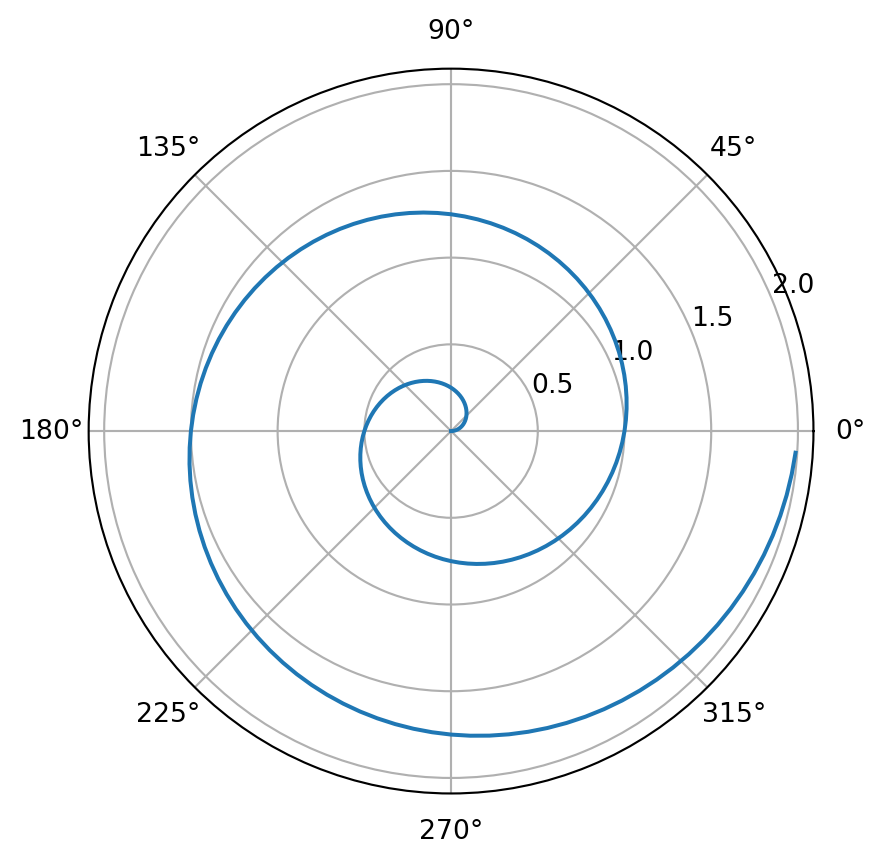
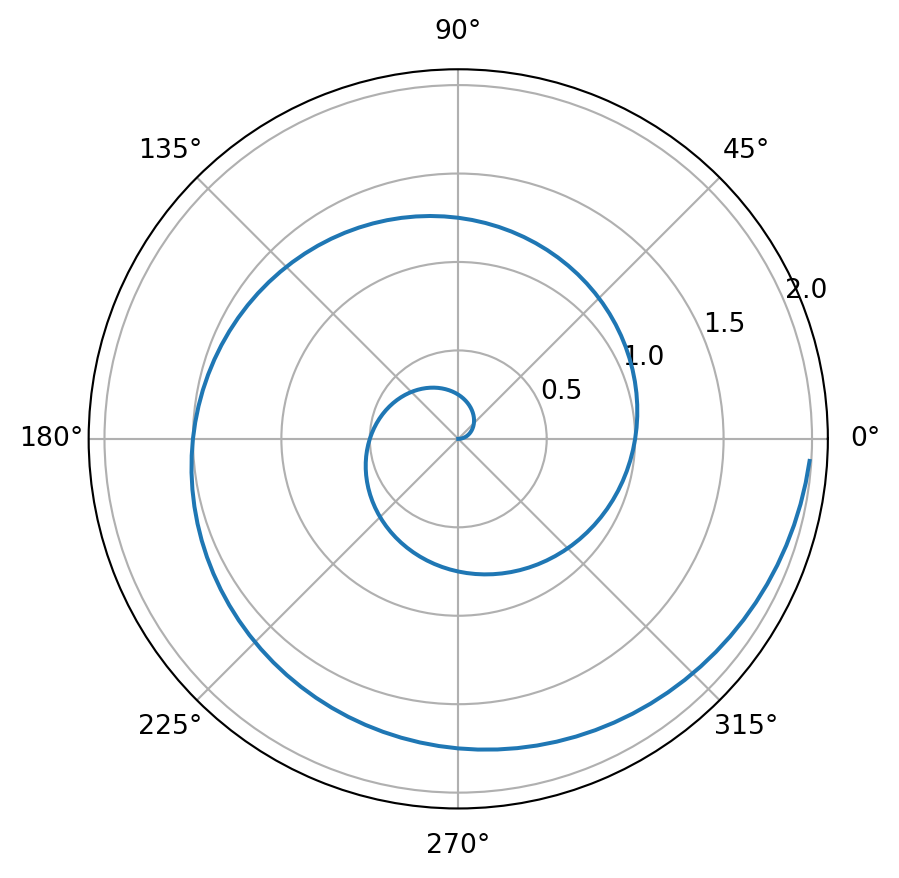
computational content analysis @ 220909-153200

diff --git a/web/sfac-py/inst-221018.html b/web/sfac-py/inst-221018.html
@@ -15,6 +15,69 @@ span.underline{text-decoration: underline;}
 div.column{display: inline-block; vertical-align: top; width: 50%;}
 div.hanging-indent{margin-left: 1.5em; text-indent: -1.5em;}
 ul.task-list{list-style: none;}
+pre > code.sourceCode { white-space: pre; position: relative; }
+pre > code.sourceCode > span { display: inline-block; line-height: 1.25; }
+pre > code.sourceCode > span:empty { height: 1.2em; }
+.sourceCode { overflow: visible; }
+code.sourceCode > span { color: inherit; text-decoration: inherit; }
+div.sourceCode { margin: 1em 0; }
+pre.sourceCode { margin: 0; }
+@media screen {
+div.sourceCode { overflow: auto; }
+}
+@media print {
+pre > code.sourceCode { white-space: pre-wrap; }
+pre > code.sourceCode > span { text-indent: -5em; padding-left: 5em; }
+}
+pre.numberSource code
+  { counter-reset: source-line 0; }
+pre.numberSource code > span
+  { position: relative; left: -4em; counter-increment: source-line; }
+pre.numberSource code > span > a:first-child::before
+  { content: counter(source-line);
+    position: relative; left: -1em; text-align: right; vertical-align: baseline;
+    border: none; display: inline-block;
+    -webkit-touch-callout: none; -webkit-user-select: none;
+    -khtml-user-select: none; -moz-user-select: none;
+    -ms-user-select: none; user-select: none;
+    padding: 0 4px; width: 4em;
+    color: #aaaaaa;
+  }
+pre.numberSource { margin-left: 3em; border-left: 1px solid #aaaaaa;  padding-left: 4px; }
+div.sourceCode
+  {   }
+@media screen {
+pre > code.sourceCode > span > a:first-child::before { text-decoration: underline; }
+}
+code span.al { color: #ff0000; font-weight: bold; } /* Alert */
+code span.an { color: #60a0b0; font-weight: bold; font-style: italic; } /* Annotation */
+code span.at { color: #7d9029; } /* Attribute */
+code span.bn { color: #40a070; } /* BaseN */
+code span.bu { } /* BuiltIn */
+code span.cf { color: #007020; font-weight: bold; } /* ControlFlow */
+code span.ch { color: #4070a0; } /* Char */
+code span.cn { color: #880000; } /* Constant */
+code span.co { color: #60a0b0; font-style: italic; } /* Comment */
+code span.cv { color: #60a0b0; font-weight: bold; font-style: italic; } /* CommentVar */
+code span.do { color: #ba2121; font-style: italic; } /* Documentation */
+code span.dt { color: #902000; } /* DataType */
+code span.dv { color: #40a070; } /* DecVal */
+code span.er { color: #ff0000; font-weight: bold; } /* Error */
+code span.ex { } /* Extension */
+code span.fl { color: #40a070; } /* Float */
+code span.fu { color: #06287e; } /* Function */
+code span.im { } /* Import */
+code span.in { color: #60a0b0; font-weight: bold; font-style: italic; } /* Information */
+code span.kw { color: #007020; font-weight: bold; } /* Keyword */
+code span.op { color: #666666; } /* Operator */
+code span.ot { color: #007020; } /* Other */
+code span.pp { color: #bc7a00; } /* Preprocessor */
+code span.sc { color: #4070a0; } /* SpecialChar */
+code span.ss { color: #bb6688; } /* SpecialString */
+code span.st { color: #4070a0; } /* String */
+code span.va { color: #19177c; } /* Variable */
+code span.vs { color: #4070a0; } /* VerbatimString */
+code span.wa { color: #60a0b0; font-weight: bold; font-style: italic; } /* Warning */
 </style>
 
 
@@ -56,6 +119,9 @@ ul.task-list{list-style: none;}
     "search-submit-button-title": "Submit"
   }
 }</script>
+<script src="https://cdnjs.cloudflare.com/ajax/libs/require.js/2.3.6/require.min.js" integrity="sha512-c3Nl8+7g4LMSTdrm621y7kf9v3SDPnhxLNhcjFJbKECVnmZHTdo+IRO05sNLTH/D3vA6u1X32ehoLC7WFVdheg==" crossorigin="anonymous"></script>
+<script src="https://cdnjs.cloudflare.com/ajax/libs/jquery/3.5.1/jquery.min.js" integrity="sha512-bLT0Qm9VnAYZDflyKcBaQ2gg0hSYNQrJ8RilYldYQ1FxQYoCLtUjuuRuZo+fjqhx/qtq/1itJ0C2ejDxltZVFg==" crossorigin="anonymous"></script>
+<script type="application/javascript">define('jquery', [],function() {return window.jQuery;})</script>
 
 
 <link rel="stylesheet" href="styles.css">
@@ -177,6 +243,85 @@ ul.task-list{list-style: none;}
 
 <section id="some-headline" class="level2">
 <h2 class="anchored" data-anchor-id="some-headline">some headline</h2>
+<div class="cell" data-execution_count="1">
+<div class="sourceCode cell-code" id="cb1"><pre class="sourceCode python code-with-copy"><code class="sourceCode python"><span id="cb1-1"><a href="#cb1-1" aria-hidden="true" tabindex="-1"></a><span class="co"># get altair graphics</span></span>
+<span id="cb1-2"><a href="#cb1-2" aria-hidden="true" tabindex="-1"></a><span class="im">import</span> altair <span class="im">as</span> alt</span>
+<span id="cb1-3"><a href="#cb1-3" aria-hidden="true" tabindex="-1"></a><span class="co"># get data object from vega_datasets</span></span>
+<span id="cb1-4"><a href="#cb1-4" aria-hidden="true" tabindex="-1"></a><span class="im">from</span> vega_datasets <span class="im">import</span> data</span></code><button title="Copy to Clipboard" class="code-copy-button"><i class="bi"></i></button></pre></div>
+</div>
+<div class="cell" data-execution_count="2">
+<div class="sourceCode cell-code" id="cb2"><pre class="sourceCode python code-with-copy"><code class="sourceCode python"><span id="cb2-1"><a href="#cb2-1" aria-hidden="true" tabindex="-1"></a><span class="co"># Selecting the data</span></span>
+<span id="cb2-2"><a href="#cb2-2" aria-hidden="true" tabindex="-1"></a>df <span class="op">=</span> data.iris()</span>
+<span id="cb2-3"><a href="#cb2-3" aria-hidden="true" tabindex="-1"></a>  </span>
+<span id="cb2-4"><a href="#cb2-4" aria-hidden="true" tabindex="-1"></a><span class="co"># Making the Scatter Plot</span></span>
+<span id="cb2-5"><a href="#cb2-5" aria-hidden="true" tabindex="-1"></a>alt.Chart(df).mark_point().encode(</span>
+<span id="cb2-6"><a href="#cb2-6" aria-hidden="true" tabindex="-1"></a>    <span class="co"># Map the sepalLength to x-axis</span></span>
+<span id="cb2-7"><a href="#cb2-7" aria-hidden="true" tabindex="-1"></a>    x<span class="op">=</span><span class="st">'sepalLength'</span>,</span>
+<span id="cb2-8"><a href="#cb2-8" aria-hidden="true" tabindex="-1"></a>    <span class="co"># Map the petalLength to y-axis</span></span>
+<span id="cb2-9"><a href="#cb2-9" aria-hidden="true" tabindex="-1"></a>    y<span class="op">=</span><span class="st">'petalLength'</span>,</span>
+<span id="cb2-10"><a href="#cb2-10" aria-hidden="true" tabindex="-1"></a>    <span class="co"># Map the species to shape</span></span>
+<span id="cb2-11"><a href="#cb2-11" aria-hidden="true" tabindex="-1"></a>    shape<span class="op">=</span><span class="st">'species'</span>,</span>
+<span id="cb2-12"><a href="#cb2-12" aria-hidden="true" tabindex="-1"></a>    <span class="co">#</span></span>
+<span id="cb2-13"><a href="#cb2-13" aria-hidden="true" tabindex="-1"></a>    color<span class="op">=</span><span class="st">'species'</span></span>
+<span id="cb2-14"><a href="#cb2-14" aria-hidden="true" tabindex="-1"></a>)</span></code><button title="Copy to Clipboard" class="code-copy-button"><i class="bi"></i></button></pre></div>
+<div class="cell-output cell-output-display" data-execution_count="2">
+
+<div id="altair-viz-afddd429305249bcb5705a6ff30d6716"></div>
+<script type="text/javascript">
+  var VEGA_DEBUG = (typeof VEGA_DEBUG == "undefined") ? {} : VEGA_DEBUG;
+  (function(spec, embedOpt){
+    let outputDiv = document.currentScript.previousElementSibling;
+    if (outputDiv.id !== "altair-viz-afddd429305249bcb5705a6ff30d6716") {
+      outputDiv = document.getElementById("altair-viz-afddd429305249bcb5705a6ff30d6716");
+    }
+    const paths = {
+      "vega": "https://cdn.jsdelivr.net/npm//vega@5?noext",
+      "vega-lib": "https://cdn.jsdelivr.net/npm//vega-lib?noext",
+      "vega-lite": "https://cdn.jsdelivr.net/npm//vega-lite@4.17.0?noext",
+      "vega-embed": "https://cdn.jsdelivr.net/npm//vega-embed@6?noext",
+    };
+
+    function maybeLoadScript(lib, version) {
+      var key = `${lib.replace("-", "")}_version`;
+      return (VEGA_DEBUG[key] == version) ?
+        Promise.resolve(paths[lib]) :
+        new Promise(function(resolve, reject) {
+          var s = document.createElement('script');
+          document.getElementsByTagName("head")[0].appendChild(s);
+          s.async = true;
+          s.onload = () => {
+            VEGA_DEBUG[key] = version;
+            return resolve(paths[lib]);
+          };
+          s.onerror = () => reject(`Error loading script: ${paths[lib]}`);
+          s.src = paths[lib];
+        });
+    }
+
+    function showError(err) {
+      outputDiv.innerHTML = `<div class="error" style="color:red;">${err}</div>`;
+      throw err;
+    }
+
+    function displayChart(vegaEmbed) {
+      vegaEmbed(outputDiv, spec, embedOpt)
+        .catch(err => showError(`Javascript Error: ${err.message}<br>This usually means there's a typo in your chart specification. See the javascript console for the full traceback.`));
+    }
+
+    if(typeof define === "function" && define.amd) {
+      requirejs.config({paths});
+      require(["vega-embed"], displayChart, err => showError(`Error loading script: ${err.message}`));
+    } else {
+      maybeLoadScript("vega", "5")
+        .then(() => maybeLoadScript("vega-lite", "4.17.0"))
+        .then(() => maybeLoadScript("vega-embed", "6"))
+        .catch(showError)
+        .then(() => displayChart(vegaEmbed));
+    }
+  })({"config": {"view": {"continuousWidth": 400, "continuousHeight": 300}}, "data": {"name": "data-a264acbd6e539a8b3afc0cb5f240fb57"}, "mark": "point", "encoding": {"color": {"field": "species", "type": "nominal"}, "shape": {"field": "species", "type": "nominal"}, "x": {"field": "sepalLength", "type": "quantitative"}, "y": {"field": "petalLength", "type": "quantitative"}}, "$schema": "https://vega.github.io/schema/vega-lite/v4.17.0.json", "datasets": {"data-a264acbd6e539a8b3afc0cb5f240fb57": [{"sepalLength": 5.1, "sepalWidth": 3.5, "petalLength": 1.4, "petalWidth": 0.2, "species": "setosa"}, {"sepalLength": 4.9, "sepalWidth": 3.0, "petalLength": 1.4, "petalWidth": 0.2, "species": "setosa"}, {"sepalLength": 4.7, "sepalWidth": 3.2, "petalLength": 1.3, "petalWidth": 0.2, "species": "setosa"}, {"sepalLength": 4.6, "sepalWidth": 3.1, "petalLength": 1.5, "petalWidth": 0.2, "species": "setosa"}, {"sepalLength": 5.0, "sepalWidth": 3.6, "petalLength": 1.4, "petalWidth": 0.2, "species": "setosa"}, {"sepalLength": 5.4, "sepalWidth": 3.9, "petalLength": 1.7000000000000002, "petalWidth": 0.4, "species": "setosa"}, {"sepalLength": 4.6, "sepalWidth": 3.4, "petalLength": 1.4, "petalWidth": 0.30000000000000004, "species": "setosa"}, {"sepalLength": 5.0, "sepalWidth": 3.4, "petalLength": 1.5, "petalWidth": 0.2, "species": "setosa"}, {"sepalLength": 4.4, "sepalWidth": 2.9, "petalLength": 1.4, "petalWidth": 0.2, "species": "setosa"}, {"sepalLength": 4.9, "sepalWidth": 3.1, "petalLength": 1.5, "petalWidth": 0.1, "species": "setosa"}, {"sepalLength": 5.4, "sepalWidth": 3.7, "petalLength": 1.5, "petalWidth": 0.2, "species": "setosa"}, {"sepalLength": 4.8, "sepalWidth": 3.4, "petalLength": 1.6, "petalWidth": 0.2, "species": "setosa"}, {"sepalLength": 4.8, "sepalWidth": 3.0, "petalLength": 1.4, "petalWidth": 0.1, "species": "setosa"}, {"sepalLength": 4.3, "sepalWidth": 3.0, "petalLength": 1.1, "petalWidth": 0.1, "species": "setosa"}, {"sepalLength": 5.8, "sepalWidth": 4.0, "petalLength": 1.2, "petalWidth": 0.2, "species": "setosa"}, {"sepalLength": 5.7, "sepalWidth": 4.4, "petalLength": 1.5, "petalWidth": 0.4, "species": "setosa"}, {"sepalLength": 5.4, "sepalWidth": 3.9, "petalLength": 1.3, "petalWidth": 0.4, "species": "setosa"}, {"sepalLength": 5.1, "sepalWidth": 3.5, "petalLength": 1.4, "petalWidth": 0.30000000000000004, "species": "setosa"}, {"sepalLength": 5.7, "sepalWidth": 3.8, "petalLength": 1.7000000000000002, "petalWidth": 0.30000000000000004, "species": "setosa"}, {"sepalLength": 5.1, "sepalWidth": 3.8, "petalLength": 1.5, "petalWidth": 0.30000000000000004, "species": "setosa"}, {"sepalLength": 5.4, "sepalWidth": 3.4, "petalLength": 1.7000000000000002, "petalWidth": 0.2, "species": "setosa"}, {"sepalLength": 5.1, "sepalWidth": 3.7, "petalLength": 1.5, "petalWidth": 0.4, "species": "setosa"}, {"sepalLength": 4.6, "sepalWidth": 3.6, "petalLength": 1.0, "petalWidth": 0.2, "species": "setosa"}, {"sepalLength": 5.1, "sepalWidth": 3.3, "petalLength": 1.7000000000000002, "petalWidth": 0.5, "species": "setosa"}, {"sepalLength": 4.8, "sepalWidth": 3.4, "petalLength": 1.9, "petalWidth": 0.2, "species": "setosa"}, {"sepalLength": 5.0, "sepalWidth": 3.0, "petalLength": 1.6, "petalWidth": 0.2, "species": "setosa"}, {"sepalLength": 5.0, "sepalWidth": 3.4, "petalLength": 1.6, "petalWidth": 0.4, "species": "setosa"}, {"sepalLength": 5.2, "sepalWidth": 3.5, "petalLength": 1.5, "petalWidth": 0.2, "species": "setosa"}, {"sepalLength": 5.2, "sepalWidth": 3.4, "petalLength": 1.4, "petalWidth": 0.2, "species": "setosa"}, {"sepalLength": 4.7, "sepalWidth": 3.2, "petalLength": 1.6, "petalWidth": 0.2, "species": "setosa"}, {"sepalLength": 4.8, "sepalWidth": 3.1, "petalLength": 1.6, "petalWidth": 0.2, "species": "setosa"}, {"sepalLength": 5.4, "sepalWidth": 3.4, "petalLength": 1.5, "petalWidth": 0.4, "species": "setosa"}, {"sepalLength": 5.2, "sepalWidth": 4.1, "petalLength": 1.5, "petalWidth": 0.1, "species": "setosa"}, {"sepalLength": 5.5, "sepalWidth": 4.2, "petalLength": 1.4, "petalWidth": 0.2, "species": "setosa"}, {"sepalLength": 4.9, "sepalWidth": 3.1, "petalLength": 1.5, "petalWidth": 0.2, "species": "setosa"}, {"sepalLength": 5.0, "sepalWidth": 3.2, "petalLength": 1.2, "petalWidth": 0.2, "species": "setosa"}, {"sepalLength": 5.5, "sepalWidth": 3.5, "petalLength": 1.3, "petalWidth": 0.2, "species": "setosa"}, {"sepalLength": 4.9, "sepalWidth": 3.6, "petalLength": 1.4, "petalWidth": 0.1, "species": "setosa"}, {"sepalLength": 4.4, "sepalWidth": 3.0, "petalLength": 1.3, "petalWidth": 0.2, "species": "setosa"}, {"sepalLength": 5.1, "sepalWidth": 3.4, "petalLength": 1.5, "petalWidth": 0.2, "species": "setosa"}, {"sepalLength": 5.0, "sepalWidth": 3.5, "petalLength": 1.3, "petalWidth": 0.30000000000000004, "species": "setosa"}, {"sepalLength": 4.5, "sepalWidth": 2.3, "petalLength": 1.3, "petalWidth": 0.30000000000000004, "species": "setosa"}, {"sepalLength": 4.4, "sepalWidth": 3.2, "petalLength": 1.3, "petalWidth": 0.2, "species": "setosa"}, {"sepalLength": 5.0, "sepalWidth": 3.5, "petalLength": 1.6, "petalWidth": 0.6000000000000001, "species": "setosa"}, {"sepalLength": 5.1, "sepalWidth": 3.8, "petalLength": 1.9, "petalWidth": 0.4, "species": "setosa"}, {"sepalLength": 4.8, "sepalWidth": 3.0, "petalLength": 1.4, "petalWidth": 0.30000000000000004, "species": "setosa"}, {"sepalLength": 5.1, "sepalWidth": 3.8, "petalLength": 1.6, "petalWidth": 0.2, "species": "setosa"}, {"sepalLength": 4.6, "sepalWidth": 3.2, "petalLength": 1.4, "petalWidth": 0.2, "species": "setosa"}, {"sepalLength": 5.3, "sepalWidth": 3.7, "petalLength": 1.5, "petalWidth": 0.2, "species": "setosa"}, {"sepalLength": 5.0, "sepalWidth": 3.3, "petalLength": 1.4, "petalWidth": 0.2, "species": "setosa"}, {"sepalLength": 7.0, "sepalWidth": 3.2, "petalLength": 4.7, "petalWidth": 1.4, "species": "versicolor"}, {"sepalLength": 6.4, "sepalWidth": 3.2, "petalLength": 4.5, "petalWidth": 1.5, "species": "versicolor"}, {"sepalLength": 6.9, "sepalWidth": 3.1, "petalLength": 4.9, "petalWidth": 1.5, "species": "versicolor"}, {"sepalLength": 5.5, "sepalWidth": 2.3, "petalLength": 4.0, "petalWidth": 1.3, "species": "versicolor"}, {"sepalLength": 6.5, "sepalWidth": 2.8, "petalLength": 4.6, "petalWidth": 1.5, "species": "versicolor"}, {"sepalLength": 5.7, "sepalWidth": 2.8, "petalLength": 4.5, "petalWidth": 1.3, "species": "versicolor"}, {"sepalLength": 6.3, "sepalWidth": 3.3, "petalLength": 4.7, "petalWidth": 1.6, "species": "versicolor"}, {"sepalLength": 4.9, "sepalWidth": 2.4, "petalLength": 3.3, "petalWidth": 1.0, "species": "versicolor"}, {"sepalLength": 6.6, "sepalWidth": 2.9, "petalLength": 4.6, "petalWidth": 1.3, "species": "versicolor"}, {"sepalLength": 5.2, "sepalWidth": 2.7, "petalLength": 3.9, "petalWidth": 1.4, "species": "versicolor"}, {"sepalLength": 5.0, "sepalWidth": 2.0, "petalLength": 3.5, "petalWidth": 1.0, "species": "versicolor"}, {"sepalLength": 5.9, "sepalWidth": 3.0, "petalLength": 4.2, "petalWidth": 1.5, "species": "versicolor"}, {"sepalLength": 6.0, "sepalWidth": 2.2, "petalLength": 4.0, "petalWidth": 1.0, "species": "versicolor"}, {"sepalLength": 6.1, "sepalWidth": 2.9, "petalLength": 4.7, "petalWidth": 1.4, "species": "versicolor"}, {"sepalLength": 5.6, "sepalWidth": 2.9, "petalLength": 3.6, "petalWidth": 1.3, "species": "versicolor"}, {"sepalLength": 6.7, "sepalWidth": 3.1, "petalLength": 4.4, "petalWidth": 1.4, "species": "versicolor"}, {"sepalLength": 5.6, "sepalWidth": 3.0, "petalLength": 4.5, "petalWidth": 1.5, "species": "versicolor"}, {"sepalLength": 5.8, "sepalWidth": 2.7, "petalLength": 4.1, "petalWidth": 1.0, "species": "versicolor"}, {"sepalLength": 6.2, "sepalWidth": 2.2, "petalLength": 4.5, "petalWidth": 1.5, "species": "versicolor"}, {"sepalLength": 5.6, "sepalWidth": 2.5, "petalLength": 3.9, "petalWidth": 1.1, "species": "versicolor"}, {"sepalLength": 5.9, "sepalWidth": 3.2, "petalLength": 4.8, "petalWidth": 1.8, "species": "versicolor"}, {"sepalLength": 6.1, "sepalWidth": 2.8, "petalLength": 4.0, "petalWidth": 1.3, "species": "versicolor"}, {"sepalLength": 6.3, "sepalWidth": 2.5, "petalLength": 4.9, "petalWidth": 1.5, "species": "versicolor"}, {"sepalLength": 6.1, "sepalWidth": 2.8, "petalLength": 4.7, "petalWidth": 1.2, "species": "versicolor"}, {"sepalLength": 6.4, "sepalWidth": 2.9, "petalLength": 4.3, "petalWidth": 1.3, "species": "versicolor"}, {"sepalLength": 6.6, "sepalWidth": 3.0, "petalLength": 4.4, "petalWidth": 1.4, "species": "versicolor"}, {"sepalLength": 6.8, "sepalWidth": 2.8, "petalLength": 4.8, "petalWidth": 1.4, "species": "versicolor"}, {"sepalLength": 6.7, "sepalWidth": 3.0, "petalLength": 5.0, "petalWidth": 1.7000000000000002, "species": "versicolor"}, {"sepalLength": 6.0, "sepalWidth": 2.9, "petalLength": 4.5, "petalWidth": 1.5, "species": "versicolor"}, {"sepalLength": 5.7, "sepalWidth": 2.6, "petalLength": 3.5, "petalWidth": 1.0, "species": "versicolor"}, {"sepalLength": 5.5, "sepalWidth": 2.4, "petalLength": 3.8, "petalWidth": 1.1, "species": "versicolor"}, {"sepalLength": 5.5, "sepalWidth": 2.4, "petalLength": 3.7, "petalWidth": 1.0, "species": "versicolor"}, {"sepalLength": 5.8, "sepalWidth": 2.7, "petalLength": 3.9, "petalWidth": 1.2, "species": "versicolor"}, {"sepalLength": 6.0, "sepalWidth": 2.7, "petalLength": 5.1, "petalWidth": 1.6, "species": "versicolor"}, {"sepalLength": 5.4, "sepalWidth": 3.0, "petalLength": 4.5, "petalWidth": 1.5, "species": "versicolor"}, {"sepalLength": 6.0, "sepalWidth": 3.4, "petalLength": 4.5, "petalWidth": 1.6, "species": "versicolor"}, {"sepalLength": 6.7, "sepalWidth": 3.1, "petalLength": 4.7, "petalWidth": 1.5, "species": "versicolor"}, {"sepalLength": 6.3, "sepalWidth": 2.3, "petalLength": 4.4, "petalWidth": 1.3, "species": "versicolor"}, {"sepalLength": 5.6, "sepalWidth": 3.0, "petalLength": 4.1, "petalWidth": 1.3, "species": "versicolor"}, {"sepalLength": 5.5, "sepalWidth": 2.5, "petalLength": 4.0, "petalWidth": 1.3, "species": "versicolor"}, {"sepalLength": 5.5, "sepalWidth": 2.6, "petalLength": 4.4, "petalWidth": 1.2, "species": "versicolor"}, {"sepalLength": 6.1, "sepalWidth": 3.0, "petalLength": 4.6, "petalWidth": 1.4, "species": "versicolor"}, {"sepalLength": 5.8, "sepalWidth": 2.6, "petalLength": 4.0, "petalWidth": 1.2, "species": "versicolor"}, {"sepalLength": 5.0, "sepalWidth": 2.3, "petalLength": 3.3, "petalWidth": 1.0, "species": "versicolor"}, {"sepalLength": 5.6, "sepalWidth": 2.7, "petalLength": 4.2, "petalWidth": 1.3, "species": "versicolor"}, {"sepalLength": 5.7, "sepalWidth": 3.0, "petalLength": 4.2, "petalWidth": 1.2, "species": "versicolor"}, {"sepalLength": 5.7, "sepalWidth": 2.9, "petalLength": 4.2, "petalWidth": 1.3, "species": "versicolor"}, {"sepalLength": 6.2, "sepalWidth": 2.9, "petalLength": 4.3, "petalWidth": 1.3, "species": "versicolor"}, {"sepalLength": 5.1, "sepalWidth": 2.5, "petalLength": 3.0, "petalWidth": 1.1, "species": "versicolor"}, {"sepalLength": 5.7, "sepalWidth": 2.8, "petalLength": 4.1, "petalWidth": 1.3, "species": "versicolor"}, {"sepalLength": 6.3, "sepalWidth": 3.3, "petalLength": 6.0, "petalWidth": 2.5, "species": "virginica"}, {"sepalLength": 5.8, "sepalWidth": 2.7, "petalLength": 5.1, "petalWidth": 1.9, "species": "virginica"}, {"sepalLength": 7.1, "sepalWidth": 3.0, "petalLength": 5.9, "petalWidth": 2.1, "species": "virginica"}, {"sepalLength": 6.3, "sepalWidth": 2.9, "petalLength": 5.6, "petalWidth": 1.8, "species": "virginica"}, {"sepalLength": 6.5, "sepalWidth": 3.0, "petalLength": 5.8, "petalWidth": 2.2, "species": "virginica"}, {"sepalLength": 7.6, "sepalWidth": 3.0, "petalLength": 6.6, "petalWidth": 2.1, "species": "virginica"}, {"sepalLength": 4.9, "sepalWidth": 2.5, "petalLength": 4.5, "petalWidth": 1.7000000000000002, "species": "virginica"}, {"sepalLength": 7.3, "sepalWidth": 2.9, "petalLength": 6.3, "petalWidth": 1.8, "species": "virginica"}, {"sepalLength": 6.7, "sepalWidth": 2.5, "petalLength": 5.8, "petalWidth": 1.8, "species": "virginica"}, {"sepalLength": 7.2, "sepalWidth": 3.6, "petalLength": 6.1, "petalWidth": 2.5, "species": "virginica"}, {"sepalLength": 6.5, "sepalWidth": 3.2, "petalLength": 5.1, "petalWidth": 2.0, "species": "virginica"}, {"sepalLength": 6.4, "sepalWidth": 2.7, "petalLength": 5.3, "petalWidth": 1.9, "species": "virginica"}, {"sepalLength": 6.8, "sepalWidth": 3.0, "petalLength": 5.5, "petalWidth": 2.1, "species": "virginica"}, {"sepalLength": 5.7, "sepalWidth": 2.5, "petalLength": 5.0, "petalWidth": 2.0, "species": "virginica"}, {"sepalLength": 5.8, "sepalWidth": 2.8, "petalLength": 5.1, "petalWidth": 2.4, "species": "virginica"}, {"sepalLength": 6.4, "sepalWidth": 3.2, "petalLength": 5.3, "petalWidth": 2.3, "species": "virginica"}, {"sepalLength": 6.5, "sepalWidth": 3.0, "petalLength": 5.5, "petalWidth": 1.8, "species": "virginica"}, {"sepalLength": 7.7, "sepalWidth": 3.8, "petalLength": 6.7, "petalWidth": 2.2, "species": "virginica"}, {"sepalLength": 7.7, "sepalWidth": 2.6, "petalLength": 6.9, "petalWidth": 2.3, "species": "virginica"}, {"sepalLength": 6.0, "sepalWidth": 2.2, "petalLength": 5.0, "petalWidth": 1.5, "species": "virginica"}, {"sepalLength": 6.9, "sepalWidth": 3.2, "petalLength": 5.7, "petalWidth": 2.3, "species": "virginica"}, {"sepalLength": 5.6, "sepalWidth": 2.8, "petalLength": 4.9, "petalWidth": 2.0, "species": "virginica"}, {"sepalLength": 7.7, "sepalWidth": 2.8, "petalLength": 6.7, "petalWidth": 2.0, "species": "virginica"}, {"sepalLength": 6.3, "sepalWidth": 2.7, "petalLength": 4.9, "petalWidth": 1.8, "species": "virginica"}, {"sepalLength": 6.7, "sepalWidth": 3.3, "petalLength": 5.7, "petalWidth": 2.1, "species": "virginica"}, {"sepalLength": 7.2, "sepalWidth": 3.2, "petalLength": 6.0, "petalWidth": 1.8, "species": "virginica"}, {"sepalLength": 6.2, "sepalWidth": 2.8, "petalLength": 4.8, "petalWidth": 1.8, "species": "virginica"}, {"sepalLength": 6.1, "sepalWidth": 3.0, "petalLength": 4.9, "petalWidth": 1.8, "species": "virginica"}, {"sepalLength": 6.4, "sepalWidth": 2.8, "petalLength": 5.6, "petalWidth": 2.1, "species": "virginica"}, {"sepalLength": 7.2, "sepalWidth": 3.0, "petalLength": 5.8, "petalWidth": 1.6, "species": "virginica"}, {"sepalLength": 7.4, "sepalWidth": 2.8, "petalLength": 6.1, "petalWidth": 1.9, "species": "virginica"}, {"sepalLength": 7.9, "sepalWidth": 3.8, "petalLength": 6.4, "petalWidth": 2.0, "species": "virginica"}, {"sepalLength": 6.4, "sepalWidth": 2.8, "petalLength": 5.6, "petalWidth": 2.2, "species": "virginica"}, {"sepalLength": 6.3, "sepalWidth": 2.8, "petalLength": 5.1, "petalWidth": 1.5, "species": "virginica"}, {"sepalLength": 6.1, "sepalWidth": 2.6, "petalLength": 5.6, "petalWidth": 1.4, "species": "virginica"}, {"sepalLength": 7.7, "sepalWidth": 3.0, "petalLength": 6.1, "petalWidth": 2.3, "species": "virginica"}, {"sepalLength": 6.3, "sepalWidth": 3.4, "petalLength": 5.6, "petalWidth": 2.4, "species": "virginica"}, {"sepalLength": 6.4, "sepalWidth": 3.1, "petalLength": 5.5, "petalWidth": 1.8, "species": "virginica"}, {"sepalLength": 6.0, "sepalWidth": 3.0, "petalLength": 4.8, "petalWidth": 1.8, "species": "virginica"}, {"sepalLength": 6.9, "sepalWidth": 3.1, "petalLength": 5.4, "petalWidth": 2.1, "species": "virginica"}, {"sepalLength": 6.7, "sepalWidth": 3.1, "petalLength": 5.6, "petalWidth": 2.4, "species": "virginica"}, {"sepalLength": 6.9, "sepalWidth": 3.1, "petalLength": 5.1, "petalWidth": 2.3, "species": "virginica"}, {"sepalLength": 5.8, "sepalWidth": 2.7, "petalLength": 5.1, "petalWidth": 1.9, "species": "virginica"}, {"sepalLength": 6.8, "sepalWidth": 3.2, "petalLength": 5.9, "petalWidth": 2.3, "species": "virginica"}, {"sepalLength": 6.7, "sepalWidth": 3.3, "petalLength": 5.7, "petalWidth": 2.5, "species": "virginica"}, {"sepalLength": 6.7, "sepalWidth": 3.0, "petalLength": 5.2, "petalWidth": 2.3, "species": "virginica"}, {"sepalLength": 6.3, "sepalWidth": 2.5, "petalLength": 5.0, "petalWidth": 1.9, "species": "virginica"}, {"sepalLength": 6.5, "sepalWidth": 3.0, "petalLength": 5.2, "petalWidth": 2.0, "species": "virginica"}, {"sepalLength": 6.2, "sepalWidth": 3.4, "petalLength": 5.4, "petalWidth": 2.3, "species": "virginica"}, {"sepalLength": 5.9, "sepalWidth": 3.0, "petalLength": 5.1, "petalWidth": 1.8, "species": "virginica"}]}}, {"mode": "vega-lite"});
+</script>
+</div>
+</div>
 
 
 </section>

diff --git a/web/sfac-py/schedule.html b/web/sfac-py/schedule.html
@@ -194,18 +194,18 @@ ul.task-list{list-style: none;}
 </tr>
 <tr class="odd">
 <td style="text-align: left;">2022-10-19</td>
-<td style="text-align: left;">text analysis, latent content features, sentiment analysis, topic modelling</td>
-<td style="text-align: left;">spacy</td>
+<td style="text-align: left;">reproducible data analysis, data visualization, sharing and collaborating</td>
+<td style="text-align: left;">seaborn, altair</td>
 </tr>
 <tr class="even">
 <td style="text-align: left;">2022-10-20</td>
-<td style="text-align: left;">image analysis, latent content features, object recognition, captioning</td>
-<td style="text-align: left;">opencv, pytorch</td>
+<td style="text-align: left;">text analysis, latent content features, sentiment analysis, topic modelling</td>
+<td style="text-align: left;">spacy</td>
 </tr>
 <tr class="odd">
 <td style="text-align: left;">2022-10-21</td>
-<td style="text-align: left;">reproducible data analysis, data visualization, sharing and collaborating</td>
-<td style="text-align: left;">matplotlib</td>
+<td style="text-align: left;">image analysis, latent content features, object recognition, captioning</td>
+<td style="text-align: left;">opencv, pytorch</td>
 </tr>
 </tbody>
 </table>

diff --git a/web/sfac-py/inst-221017.html b/web/sfac-py/inst-221017.html
@@ -257,7 +257,7 @@ code span.wa { color: #60a0b0; font-weight: bold; font-style: italic; } /* Warni
 <div class="cell-output cell-output-display">
 <div id="fig-polar" class="quarto-figure quarto-figure-center anchored">
 <figure class="figure">
-<p><img src="inst-221017_files/figure-html/fig-polar-output-1.png" width="443" height="432" class="figure-img"></p>
+<p><img src="inst-221017_files/figure-html/fig-polar-output-1.png" width="450" height="439" class="figure-img"></p>
 <p></p><figcaption class="figure-caption">Figure 1: A line plot on a polar axis</figcaption><p></p>
 </figure>
 </div>
